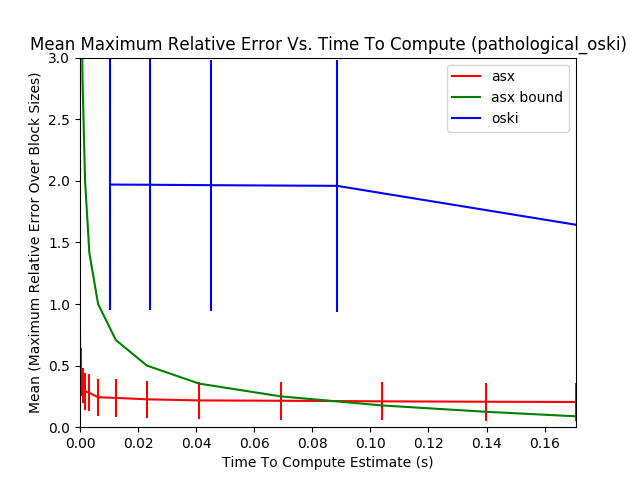
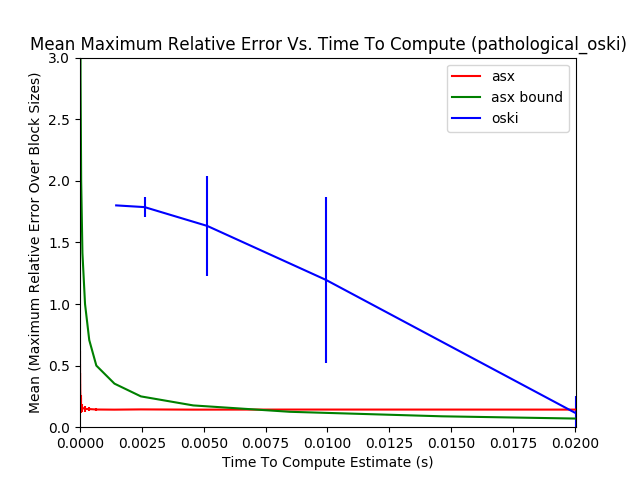
debugging

diff --git a/code/graveyard/util.c b/code/graveyard/util.c
@@ -1,0 +1,234 @@
+#include <glib.h>
+#include <gsl/gsl_rng.h>
+#include <stdlib.h>
+#include "util.h"
+
+hash_t *hash_create () {
+  return (char*) g_hash_table_new(g_direct_hash, g_direct_equal);
+}
+
+void hash_set (hash_t *table, size_t key, size_t value) {
+  g_hash_table_replace((GHashTable*)table, (gpointer)key, (gpointer)value);
+}
+
+size_t hash_get (hash_t *table, size_t key, size_t value) {
+  size_t orig_key;
+  size_t result;
+  if (g_hash_table_lookup_extended((GHashTable*)table, (gpointer)key, (gpointer*)&orig_key, (gpointer*)&result)) {
+    return result;
+  }
+  return value;
+}
+
+void hash_clear (hash_t *table) {
+  return g_hash_table_remove_all((GHashTable*)table);
+}
+
+void hash_destroy (hash_t *table) {
+  return g_hash_table_destroy((GHashTable*)table);
+}
+
+typedef struct myhash_t {
+  size_t n;
+  size_t offset;
+  size_t *keys;
+  size_t *values;
+}
+
+myhash_t *myhash_create (size_t n, size_t lo, size_t hi) {
+  myhash_t *table = (myhash_t*)malloc(sizeof(myhash_t));
+  table->n = n;
+  table->offset = 1 - lo;
+  table->keys = (size_t*)malloc(n * sizeof(size_t));
+  for (size_t i = 0; i < table->n; i++){
+    table->keys[i] = 0;
+  }
+  table->values = (size_t*)malloc(n * sizeof(size_t));
+}
+
+
+void myhash_set (myhash_t *table, size_t key, size_t value) {
+  key += table->offset;
+  size_t i = key % table->n;
+  while (table->keys[i] && table->keys[i] != key){
+    i = (i + 1) % table->n;
+  }
+  table->keys[i] = key;
+  table->values[i] = value;
+}
+
+size_t myhash_get (myhash_t *table, size_t key, size_t value) {
+  key += table->offset;
+  size_t i = key % table->n;
+  while (table->keys[i] && table->keys[i] != key){
+    i = (i + 1) % table->n;
+  }
+  if (table->keys[i]) {
+    return table->values[i];
+  } else {
+    return value
+  }
+}
+
+void myhash_clear (myhash_t *table) {
+  for (size_t i = 0; i < table->n; i++){
+    table->keys[i] = 0;
+  }
+}
+
+void myhash_destroy (myhash_t *table) {
+  free(table->keys);
+  free(table->values);
+  free(table);
+}
+
+
+gsl_rng *r = 0;
+
+size_t random_range (size_t lo, size_t hi) {
+  if (!r) {
+    gsl_rng_env_setup();
+    const gsl_rng_type *T = gsl_rng_default;
+    r = gsl_rng_alloc (T);
+  }
+  size_t n = hi - lo;
+  return lo + gsl_rng_uniform_int(r, n);//todo this range might not be big enough/type issues may occur here.
+}
+
+double random_uniform () {
+  if (!r) {
+    gsl_rng_env_setup();
+    const gsl_rng_type *T = gsl_rng_default;
+    r = gsl_rng_alloc (T);
+  }
+  return gsl_rng_uniform(r);
+}
+
+void random_choose (size_t *samples, size_t n, size_t lo, size_t hi) {
+  hash_t *table = hash_create();
+  for (size_t i = 0; i < n; i++) {
+    size_t j = random_range(lo, hi);
+    samples[i] = hash_get(table, j, j);
+    hash_set(table, j, hash_get(table, lo, lo));
+    lo++;
+  }
+  hash_destroy(table);
+}
+
+int size_t_cmp(const void *a, const void *b)
+{
+    const size_t *ia = (const size_t *)a;
+    const size_t *ib = (const size_t *)b;
+    return *ia  - *ib;
+}
+
+void selectsort(size_t *stuff, size_t n) {
+  if (n < 2) return;
+
+  for (size_t i = 0; i < n - 1; i++) {
+    size_t m = stuff[i];
+    size_t k = i;
+    for (size_t j = i + 1; j < n; j++) {
+      if (stuff[j] < m) {
+        m = stuff[j]
+        k = j
+      }
+    }
+    stuff[k] = stuff[i];
+    stuff[i] = m;
+  }
+}
+void quicksort(size_t *stuff, size_t n) {
+  if (n < 2) {
+    return;
+  }
+
+  if (n < 8) {
+    selectsort(stuff, n);
+    return
+  }
+
+  size_t pivot = stuff[n / 2];
+
+  size_t i, j;
+  for (i = 0, j = n - 1; ; i++, j--) {
+    while (stuff[i] < pivot) i++;
+    while (stuff[j] > pivot) j--;
+
+    if (i >= j) break;
+
+    size_t temp = stuff[i];
+    stuff[i]     = stuff[j];
+    stuff[j]     = temp;
+  }
+
+  quicksort(stuff, i);
+  quicksort(stuff + i, n - i);
+}
+
+void sort (size_t *stuff, size_t n) {
+  //quicksort(stuff, n);
+  qsort(stuff, n, sizeof(size_t), size_t_cmp);
+}
+
+size_t search (const size_t *stuff, size_t lo, size_t hi, size_t key) {
+  size_t len = hi - lo;
+  size_t half;
+  size_t mid;
+  while (len > 0) {
+    half = len >> 1;
+    mid = lo + half;
+    if (stuff[mid] >= key) {
+      len = half;
+    } else {
+      lo = mid;
+      lo++;
+      len = len - half - 1;
+    }
+  }
+  return lo;
+}
+
+size_t search_strict (const size_t *stuff, size_t lo, size_t hi, size_t key) {
+  size_t len = hi - lo;
+  size_t half;
+  size_t mid;
+  while (len > 0) {
+    half = len >> 1;
+    mid = lo + half;
+    if (stuff[mid] > key) {
+      len = half;
+    } else {
+      lo = mid;
+      lo++;
+      len = len - half - 1;
+    }
+  }
+  return lo;
+}
+
+
+#define LOAD_FACTOR 4
+void peter_choose (size_t *stuff, size_t n, size_t lo, size_t hi) {
+  if ((hi - lo)/LOAD_FACTOR > n){
+    myhash_t *table = myhash_create(LOAD_FACTOR * n, lo, hi);
+    for (size_t i = 0; i < n; i++) {
+      size_t j = random_range(lo, hi);
+      stuff[i] = myhash_get(table, j, j);
+      myhash_set(table, j, myhash_get(table, lo, lo));
+      lo++;
+    }
+    myhash_destroy(table);
+    quicksort(stuff);
+  } else {
+    size_t i = lo;
+    size_t j = 0;
+    while (i < hi && j < n) {
+      if (random_range(i, hi) - lo < n - j) {
+        stuff[j] = i
+        j++;
+      }
+      i++;
+    }
+  }
+}

diff --git a/code/plot.py b/code/plot.py
@@ -2,9 +2,10 @@ import matplotlib.pyplot as plt
 import numpy as np
 from util import *
 
-B = 12
+B = 4
 trials = 100
 
+"""
 matrices = ["3dtube_conv", "gupta1_conv", "ct20stif", "cont-300", "freeFlyingRobot_5"]
 show_bound = False
 rate = 2.0**0.5
@@ -16,7 +17,6 @@ oski_top_error = 0.05
 oski_delta_init = 0.005
 oski_override_points = []
 override_ylim = 0.0
-"""
 
 matrices = ["pathological_asx"]
 show_bound = True
@@ -31,7 +31,6 @@ oski_override_points = []
 override_ylim = 0.0
 """
 
-"""
 matrices = ["pathological_oski"]
 show_bound = True
 rate = 2.0**0.5
@@ -41,12 +40,12 @@ asx_delta = 0.01
 asx_epsilon_init = 0.5
 oski_top_error = 1.0
 oski_delta_init = 0.9
-oski_override_points = [{"delta": delta} for delta in 2**0.75 * 2**np.arange(-1.0, -6.0, -1.0)]
+oski_override_points = [{"delta": delta} for delta in 2**0.9 * 2**np.arange(-1.0, -6.0, -1.0)]
 override_ylim = 3.0
-"""
 
-references = get_references(matrices)
+references = get_references(matrices, B = B)
 for (reference, matrix) in zip(references, matrices):
+  """
   oski_points = []
   oski_delta = oski_delta_init
 
@@ -92,6 +91,12 @@ for (reference, matrix) in zip(references, matrices):
     asx_error = np.mean(results[0]["errors"])
     asx_epsilon *= rate
     print("increasing asx error", asx_error)
+  """
+  asx_points = [{'epsilon': 0.044194173824159196, 'delta': 0.01}, {'epsilon': 0.06249999999999997, 'delta': 0.01}, {'epsilon': 0.0883883476483184, 'delta': 0.01}, {'epsilon': 0.12499999999999996, 'delta': 0.01}, {'epsilon': 0.17677669529663684, 'delta': 0.01}, {'epsilon': 0.24999999999999994, 'delta': 0.01}, {'epsilon': 0.35355339059327373, 'delta': 0.01}, {'epsilon': 0.5, 'delta': 0.01}, {'epsilon': 0.7071067811865476, 'delta': 0.01}, {'epsilon': 1.0000000000000002, 'delta': 0.01}, {'epsilon': 1.4142135623730954, 'delta': 0.01}, {'epsilon': 2.0000000000000004, 'delta': 0.01}, {'epsilon': 2.8284271247461907, 'delta': 0.01}, {'epsilon': 4.000000000000001, 'delta': 0.01}, {'epsilon': 5.6568542494923815, 'delta': 0.01}, {'epsilon': 8.000000000000002, 'delta': 0.01}]
+  oski_points = [{'delta': 0.93303299153680741}, {'delta': 0.46651649576840371}, {'delta': 0.23325824788420185}, {'delta': 0.11662912394210093}, {'delta': 0.058314561971050463}]
+
+  print asx_points
+  print oski_points
 
   methods = [{"name":"asx",
               "points":asx_points,
@@ -114,6 +119,7 @@ for (reference, matrix) in zip(references, matrices):
       results = fill_estimates(method["name"], [matrix], B = B, results = True, trials = trials, **point)
       get_errors(results, [reference])
       times.append(results[0]["time_mean"])
+      #print(sorted(results[0]["errors"]))
       errors.append(np.mean(results[0]["errors"]))
       hi_bars.append(np.std(results[0]["errors"]))
       lo_bars.append(np.std(results[0]["errors"]))

diff --git a/code/util.py b/code/util.py
@@ -42,13 +42,17 @@ def get_flat_results(outputs):
 def get_references(matrices, B = 12):
   outputs = fill_estimates("reference", matrices, B = B, trials = 1, clock = False, results = True)
   get_flat_results(outputs)
-  references = [np.array(output["flat_results"]) for output in outputs]
+  references = [np.array(output["flat_results"][0]) for output in outputs]
   return references
 
 def get_errors(outputs, references):
   get_flat_results(outputs)
   for (i, reference) in enumerate(references):
-    outputs[i]["errors"] = np.max(np.abs(np.array(outputs[i]["flat_results"]) - reference[np.newaxis, :])/reference[np.newaxis, :], axis = 1)
+    fill_errors = np.abs(np.array(outputs[i]["flat_results"]) - reference[np.newaxis,:])/reference[np.newaxis,:]
+    print(reference)
+    print(outputs[i]["flat_results"][0])
+    outputs[i]["errors"] = np.max(fill_errors, axis = 1)
+
 
 def benchmark(name, matrices, B = 12, epsilon = 0.1, delta = 0.01):
   timeout = 0.1

diff --git a/code/graveyard/foo.c b/code/graveyard/foo.c
@@ -1,0 +1,17 @@
+#include <float.h>
+#include <stdio.h>
+#include <stdlib.h>
+#include <util.h>
+#include <sys/time.h>
+
+int main(int argc, char**argv) {
+  int trials = 10000
+
+  
+
+  //Benchmark some runs
+  double time = -wall_time();
+  for (int t = 0; t < trials; t++){
+  }
+  time += wall_time();
+}
